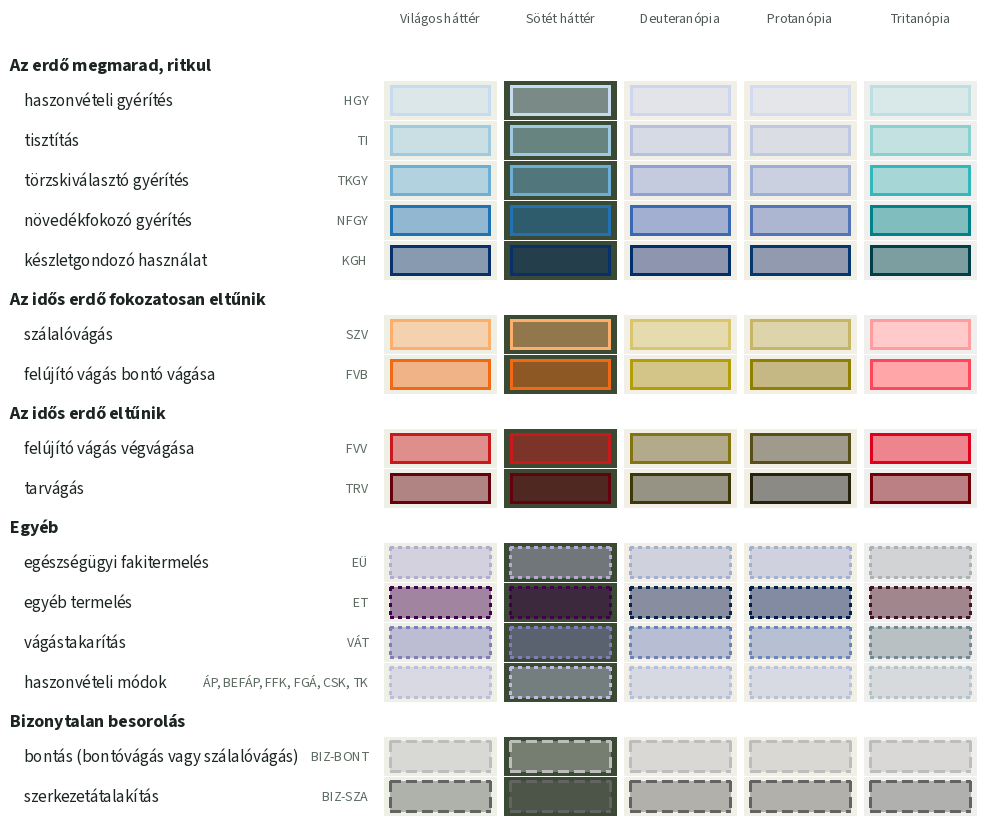
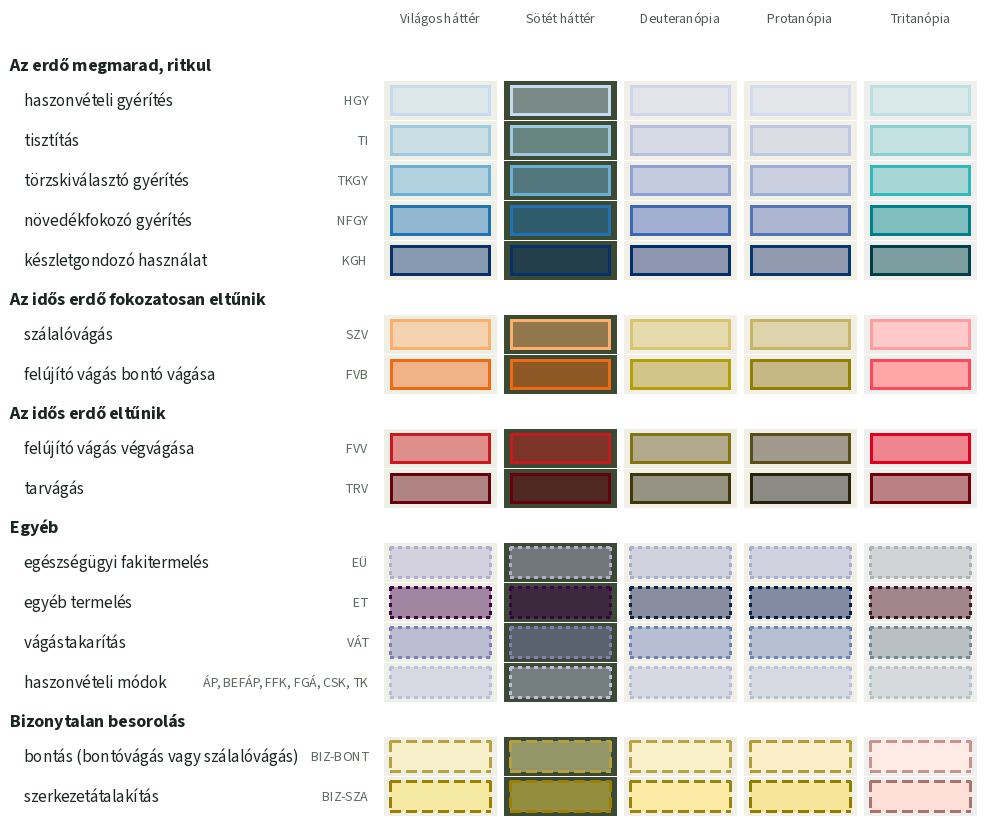
Kisebb vizuális javítások (#25) (#26)
- Szélesebb bal panel: clamp(370px, 36vw, 456px), nagy képernyőn +23%.
- A fahasználati mód csoportjai alapból összecsukva; a módok egy szinttel
  beljebb, a csoport nevéhez igazítva.
- Bizonytalan besorolás: szürke helyett sárga, sötét okker körvonallal
  (BIZ-SZA #ffe14d/#9c7f00, BIZ-BONT #fff2a8/#b8a040). A szürke a műholdképen
  lilásnak hatott (Neszmély 22 C, 22 G). Új mezőhöz: lc (körvonalszín).
- Zoomfüggő körvonal minden részletre: 14-es zoomtól 2 px, 13-on 1,5, 12 alatt
  1 px, 13 alatt folytonos.
- Színminta-szkript, adatellenőrző és dokumentáció igazítva.

Closes #25

Claude-Session: https://claude.ai/code/session_01J8LQqUABeWzqDy42gJNVyQ

Changed region(s): [[0.372, 0.875, 0.992, 1.0]]

diff --git a/tools/szinminta.py b/tools/szinminta.py
@@ -10,7 +10,7 @@ from PIL import Image, ImageDraw, ImageFont
 from colorspacious import cspace_convert
 html=open(sys.argv[1],encoding='utf8').read(); out=sys.argv[2]
 G=[(m[0],m[1]) for m in re.findall(r"^ \{k:'([^']+)', n:'([^']+)',",html,re.M)]
-M=re.findall(r"\{k:'([^']+)', g:'([^']+)', n:'([^']+)', c:'(#[0-9a-f]{6})'",html)
+M=re.findall(r"\{k:'([^']+)', g:'([^']+)', n:'([^']+)', c:'(#[0-9a-f]{6})'(?:, lc:'(#[0-9a-f]{6})')?",html)
 DASH={'egy':(3,5),'biz':(10,6)}
 import os
 F=os.environ.get('FONT','/usr/share/fonts/truetype/google-fonts/ofl/sourcesans3/SourceSans3[wght].ttf')
@@ -26,8 +26,8 @@ for gk,gn in G:
     hv=[m for m in ms if m[3]=='#bcbddc']
     ms=[m for m in ms if m[3]!='#bcbddc']
     rows.append(('g',gn))
-    for k,g,n,c in ms: rows.append(('m',(k,g,n,c)))
-    if hv: rows.append(('m',(', '.join(m[0] for m in hv),gk,'haszonvételi módok',hv[0][3])))
+    for k,g,n,c,lc in ms: rows.append(('m',(k,g,n,c,lc)))
+    if hv: rows.append(('m',(', '.join(m[0] for m in hv),gk,'haszonvételi módok',hv[0][3],hv[0][4])))
 NW,SW,RH,HH,TOP=380,120,40,34,46
 W=NW+SW*len(cols)+20; H=TOP+sum(HH if r[0]=='g' else RH for r in rows)+16
 im=Image.new('RGB',(W,H),'white'); d=ImageDraw.Draw(im)
@@ -36,13 +36,13 @@ y=TOP
 for kind,v in rows:
     if kind=='g':
         d.text((10,y+HH/2+2),v,font=fb,fill=(28,38,32),anchor='lm'); y+=HH; continue
-    k,g,n,c=v
+    k,g,n,c,lc=v
     d.text((24,y+RH/2),f"{n}",font=f,fill=(28,38,32),anchor='lm')
     d.text((NW-12,y+RH/2),k,font=fs,fill=(93,107,98),anchor='rm')
     for i,(_,bgk,t) in enumerate(cols):
         x0=NW+i*SW+10; x1=x0+SW-20; y0=y+5; y1=y+RH-5
         bg=BG[bgk]; d.rectangle([x0-6,y0-4,x1+6,y1+4],fill=T(sim(bg,t)))
-        fill=sim(rgb(c)*.45+bg*.55,t); line=T(sim(rgb(c),t))
+        fill=sim(rgb(c)*.45+bg*.55,t); line=T(sim(rgb(lc or c),t))
         d.rectangle([x0,y0,x1,y1],fill=T(fill))
         if g in DASH:
             on,off=DASH[g]

diff --git a/docs/fahasznalati-modok.md b/docs/fahasznalati-modok.md
@@ -178,9 +178,13 @@ A csoporton belüli sorrend a térkép saját, közelítő sorrendje, nem jogsza
 - *az erdő megmarad:* kék;
 - *az idős erdő eltűnik* (fokozatosan vagy egyszerre): egyetlen narancs → sötétvörös skála, a fokozatos csoport a világosabb fele;
 - *egyéb:* lila, pontozott körvonallal;
-- *bizonytalan besorolás:* szürke, szaggatott körvonallal; az ismeretlen kód is ide kerül.
+- *bizonytalan besorolás:* sárga, szaggatott, sötétebb okker körvonallal; az ismeretlen kód is ide kerül, szürkén.
 
-Zöld nincs a palettán, mert az erdő a háttértérképen és a műholdképen is zöld. A kitöltés 45%-os, a körvonal teljes színű. A színeket CAM02-UCS színtérben, színtévesztés-szimulációval ellenőriztem, világos és sötét (műholdas) háttéren. A fő különbség (kék kontra narancs–vörös) mindhárom színtévesztés-típusnál megmarad, a csoporton belüli módokat a világosság különbözteti meg. A lila és a kék deuteranópiánál, protanópiánál összemoshat, ezért kapja az egyéb és a bizonytalan csoport körvonalmintát is.
+Zöld nincs a palettán, mert az erdő a háttértérképen és a műholdképen is zöld. A kitöltés 45%-os, a körvonal teljes színű; a bizonytalan csoport körvonala a kitöltésnél sötétebb okker, hogy a sárga vonal távolról ne világítson ki a többi közül. A színeket CAM02-UCS színtérben, színtévesztés-szimulációval ellenőriztem, világos és sötét (műholdas) háttéren. A fő különbség (kék kontra narancs–vörös) mindhárom színtévesztés-típusnál megmarad, a csoporton belüli módokat a világosság különbözteti meg. A lila és a kék deuteranópiánál, protanópiánál összemoshat, ezért kapja az egyéb és a bizonytalan csoport körvonalmintát is.
+
+**Miért nem szürke a bizonytalan csoport (#25).** Eredetileg szürke volt (`#bdbdbd`, `#636363`). A műholdképen a semleges szürke a zöld növényzet között lilásnak hatott (szimultán kontraszt), és a sötét fenyvesen alig vált el; a Neszmély 22 C és 22 G részleten ez jól látszott. Esri műholdképen kipróbált változatok közül (világosszürke, fehér és fekete–fehér sraffozás, csak körvonal, sárga) a sárga kitöltés sötét okker körvonallal vált be a legjobban. A sárga közel esik a szálalóvágás világos narancsához (`#fdae6b`), de a bizonytalan csoport szaggatott körvonala megkülönbözteti.
+
+**Vonalvastagság.** A körvonal a zoomhoz igazodik: 14-es zoomtól 2 px, 13-on 1,5 px, 12 alatt 1 px, és 13 alatt folytonos, mert távolról a szaggatás csak zajt ad, a vastag vonal pedig a kis részleteket túlhangsúlyozza.
 
 ![Színminta](img/szinminta.png)
 
@@ -192,8 +196,8 @@ A színminta újragenerálása: `python3 tools/szinminta.py index.html docs/img/
 | TI | `#9ecae1` | FVB | `#f16913` | ET | `#40004b` |
 | TKGY | `#6baed6` | FVV | `#cb181d` | VÁT | `#807dba` |
 | NFGY | `#2171b5` | TRV | `#67000d` | haszonvételi módok | `#bcbddc` |
-| KGH | `#08306b` | BIZ-BONT | `#bdbdbd` | ismeretlen kód | `#969696` |
-| | | BIZ-SZA | `#636363` | | |
+| KGH | `#08306b` | BIZ-BONT | `#fff2a8`, körvonal `#b8a040` | ismeretlen kód | `#969696` |
+| | | BIZ-SZA | `#ffe14d`, körvonal `#9c7f00` | | |
 
 **Szűrők.** A jelmagyarázat csoportonként összecsukható; a csoport neve előtti jelölőnégyzet a csoport összes módját ki- vagy bekapcsolja, és részlegesen bekapcsolt állapotot is mutat. Csoportonként és módonként is látszik a részletszám és a terület. Csak az adatokban előforduló csoportok és módok jelennek meg.
 
